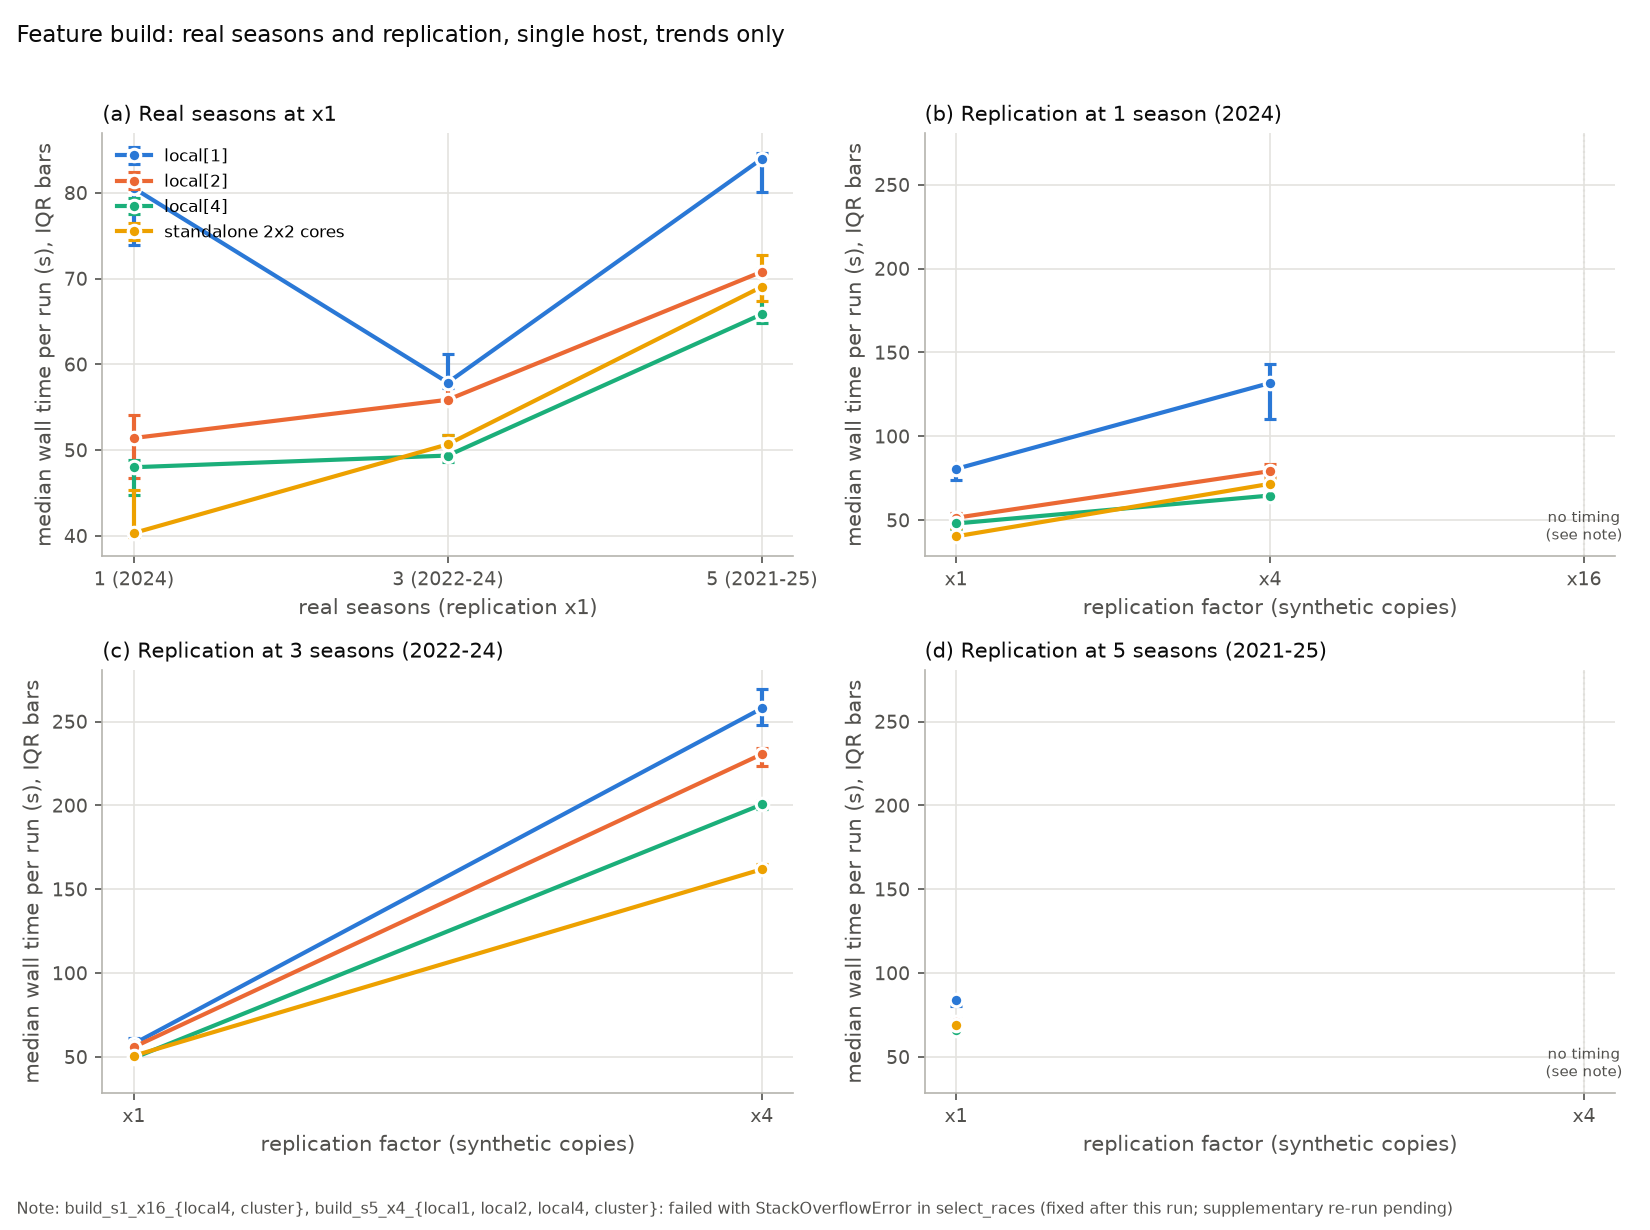
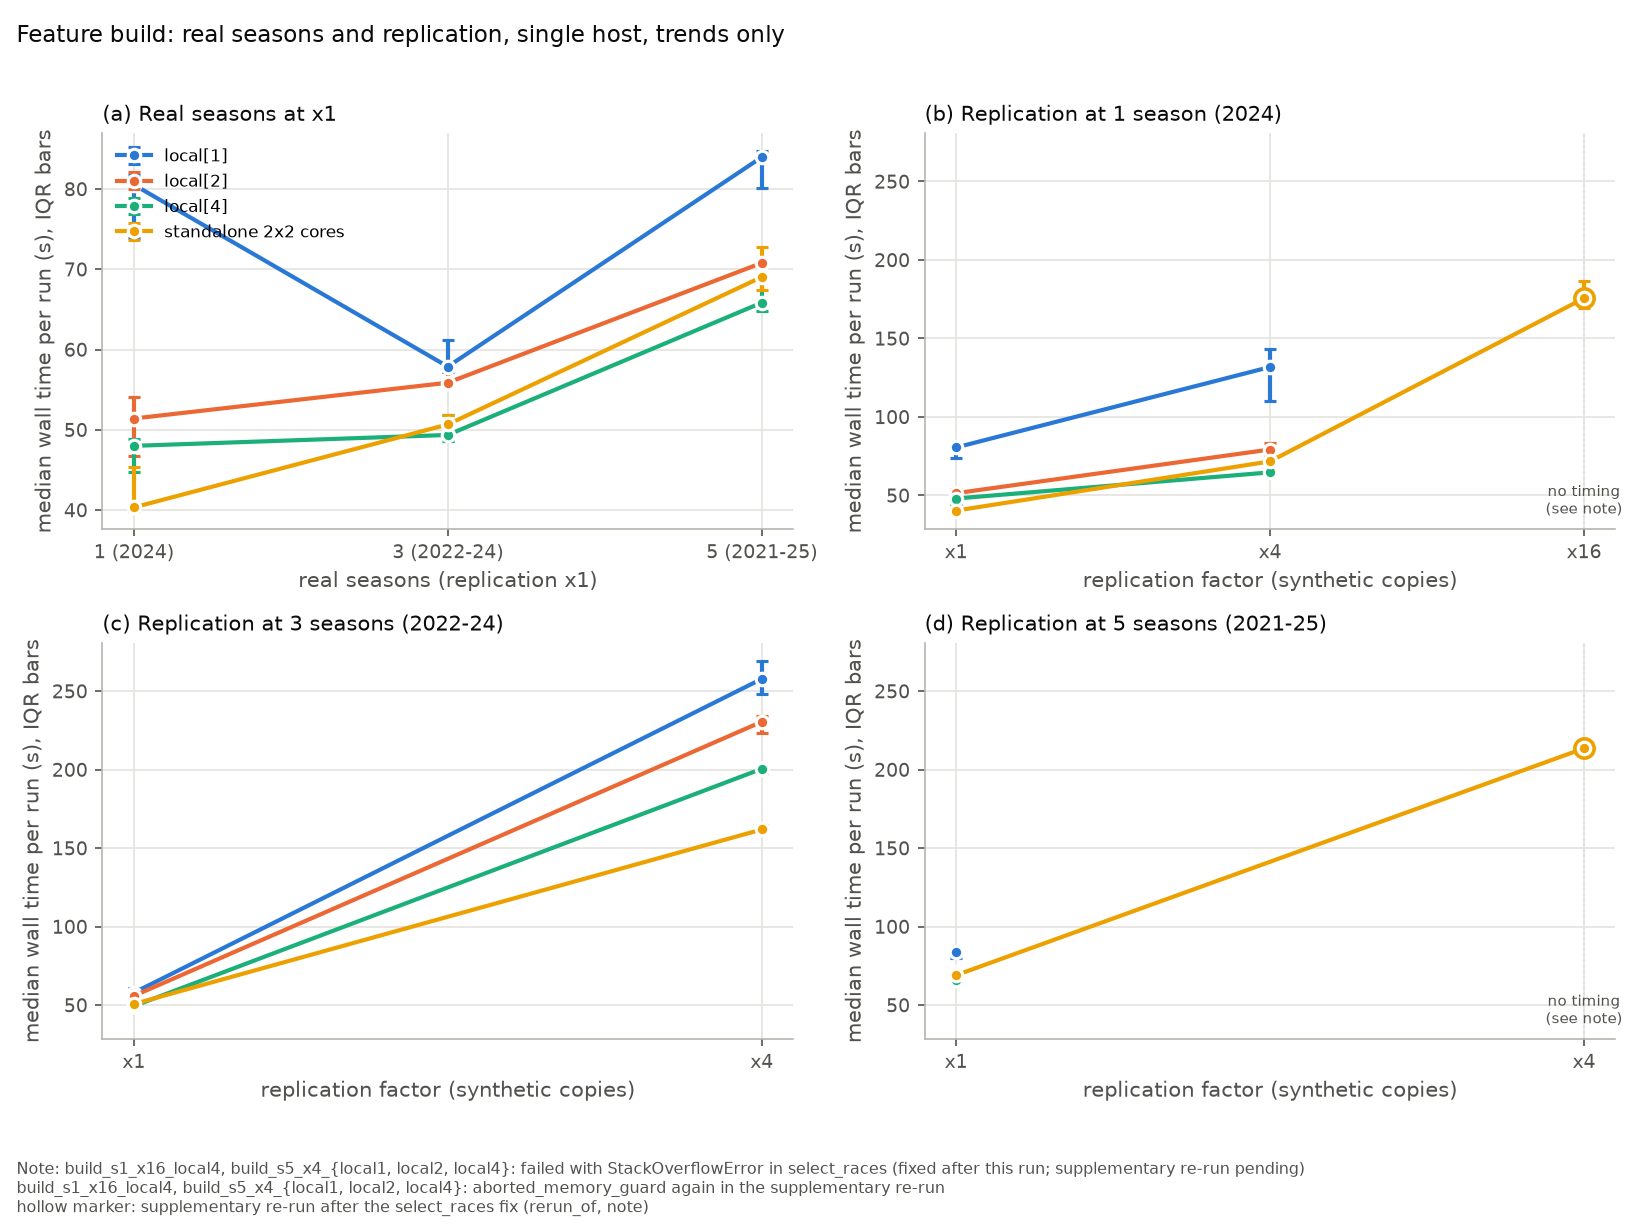
results: Step 10 supplement, 6 previously failed build cells re-run after the select_races fix

diff --git a/results/README.md b/results/README.md
@@ -53,3 +53,20 @@ Environment fingerprints of the experiments that wrote files here.
 | container_mem_limits_bytes | app=6442450944, spark-master=536870912, spark-worker-1=1610612736, spark-worker-2=1610612736, namenode=805306368, datanode=805306368 |
 | topology | one host: app container (driver / local[N]); spark-master + 2 workers (2 cores, 1g each); 1 namenode + 1 datanode, replication 1 |
 | params | run_id=bench_20261113T152740Z_part, laps_factor=16, telemetry_rounds=all, warmup=1, repeats=5, master=local[4] |
+
+## `scalability.csv` (2026-11-14T05:20:35Z)
+
+| Item | Value |
+|---|---|
+| measured_at_utc | 2026-11-14T05:20:35Z |
+| git_sha | d18a3335a069bea90cde23ebbd35e4196ec51416 |
+| git_dirty | false |
+| python | 3.12.16 |
+| pyspark | 4.2.1 |
+| java_in_app | openjdk version "17.0.21" 2026-10-20 |
+| os | Linux 6.18.58.1-microsoft-standard-WSL2 |
+| cpu | 13th Gen Intel(R) Core(TM) i7-13650HX (12 logical CPUs) |
+| memory | 13.7 GiB |
+| container_mem_limits_bytes | app=6442450944, spark-master=536870912, spark-worker-1=1610612736, spark-worker-2=1610612736, namenode=805306368, datanode=805306368 |
+| topology | one host: app container (driver / local[N]); spark-master + 2 workers (2 cores, 1g each); 1 namenode + 1 datanode, replication 1 |
+| params | run_id=bench_20261114T052031Z_supp, supplement_of=bench_20261113T152740Z, cells=build_s1_x16_local4/build_s1_x16_cluster/build_s5_x4_local1/build_s5_x4_local2/build_s5_x4_local4/build_s5_x4_cluster, seasons=1/3/5, factors=1/4/16, masters=local1/local2/local4/cluster, warmup=1, repeats=3, large_from=16, large_repeats=3, large_masters=local4/cluster |
